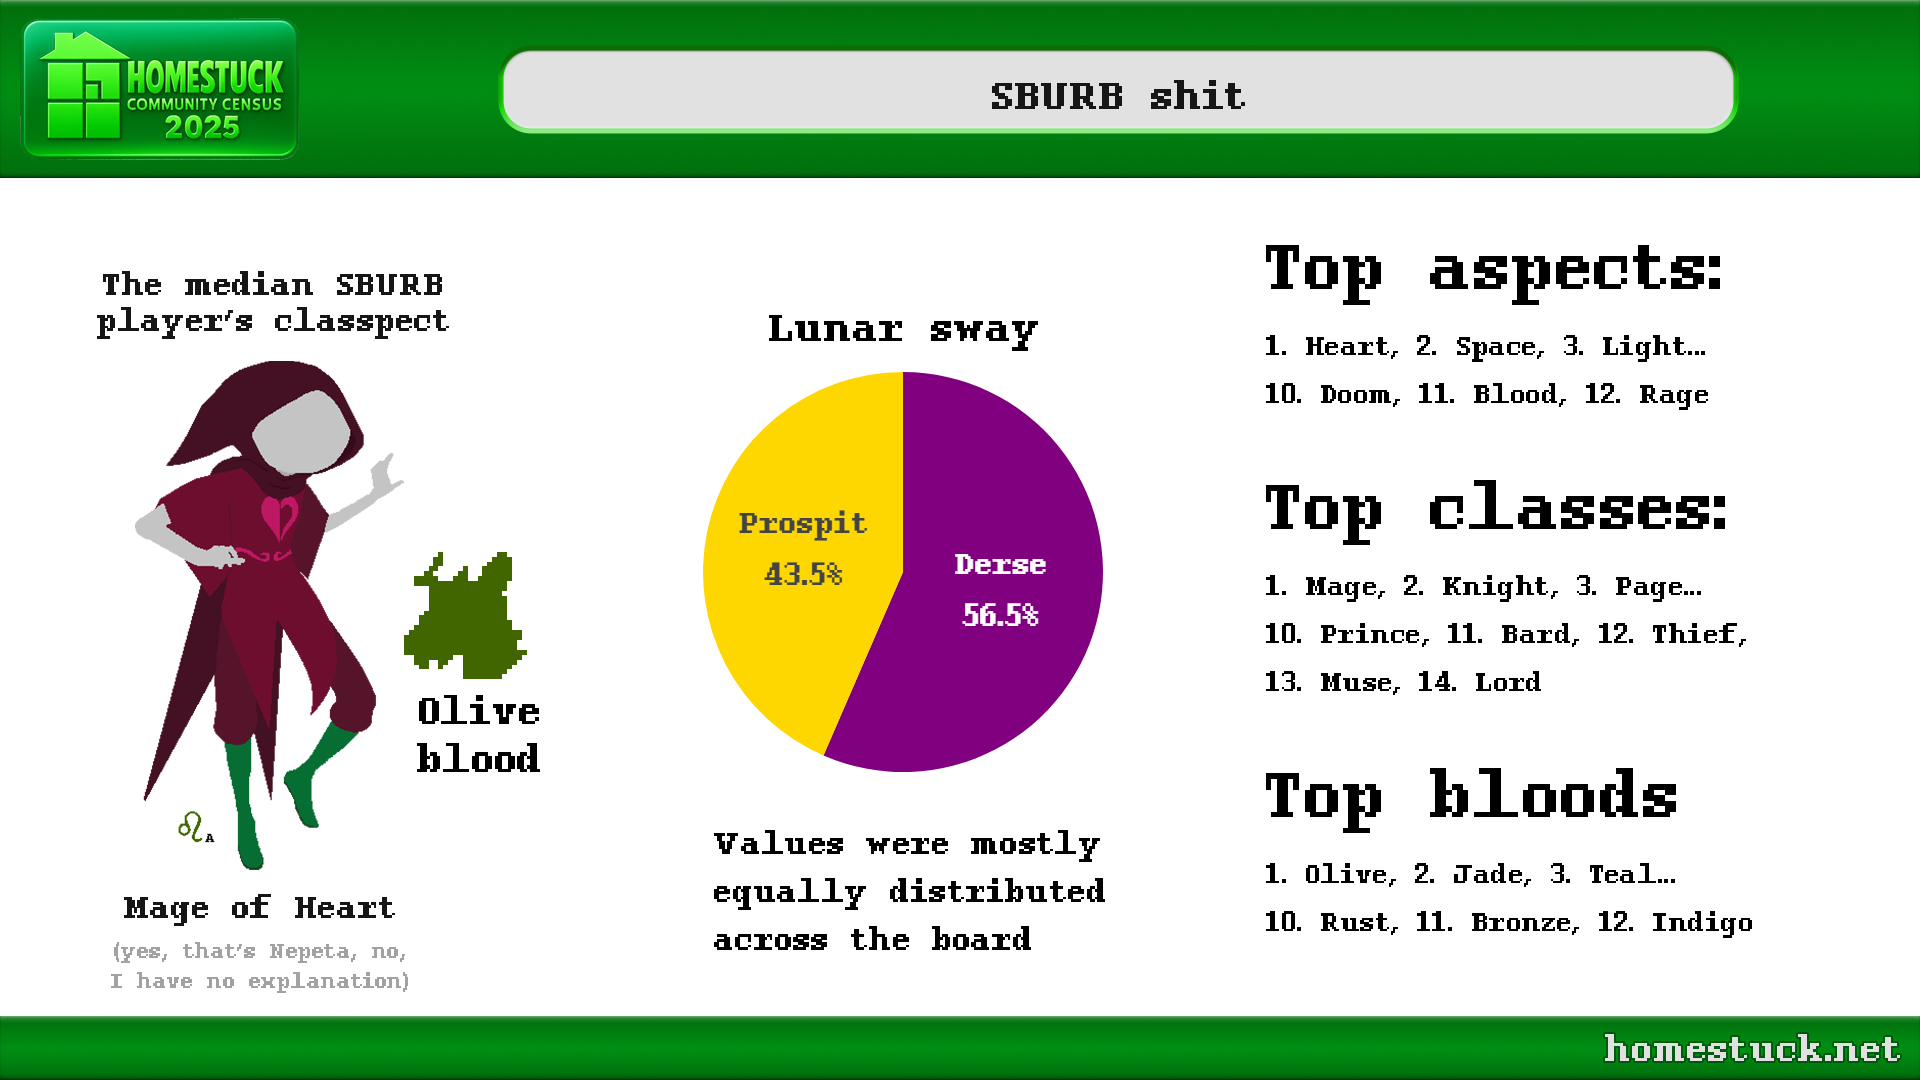
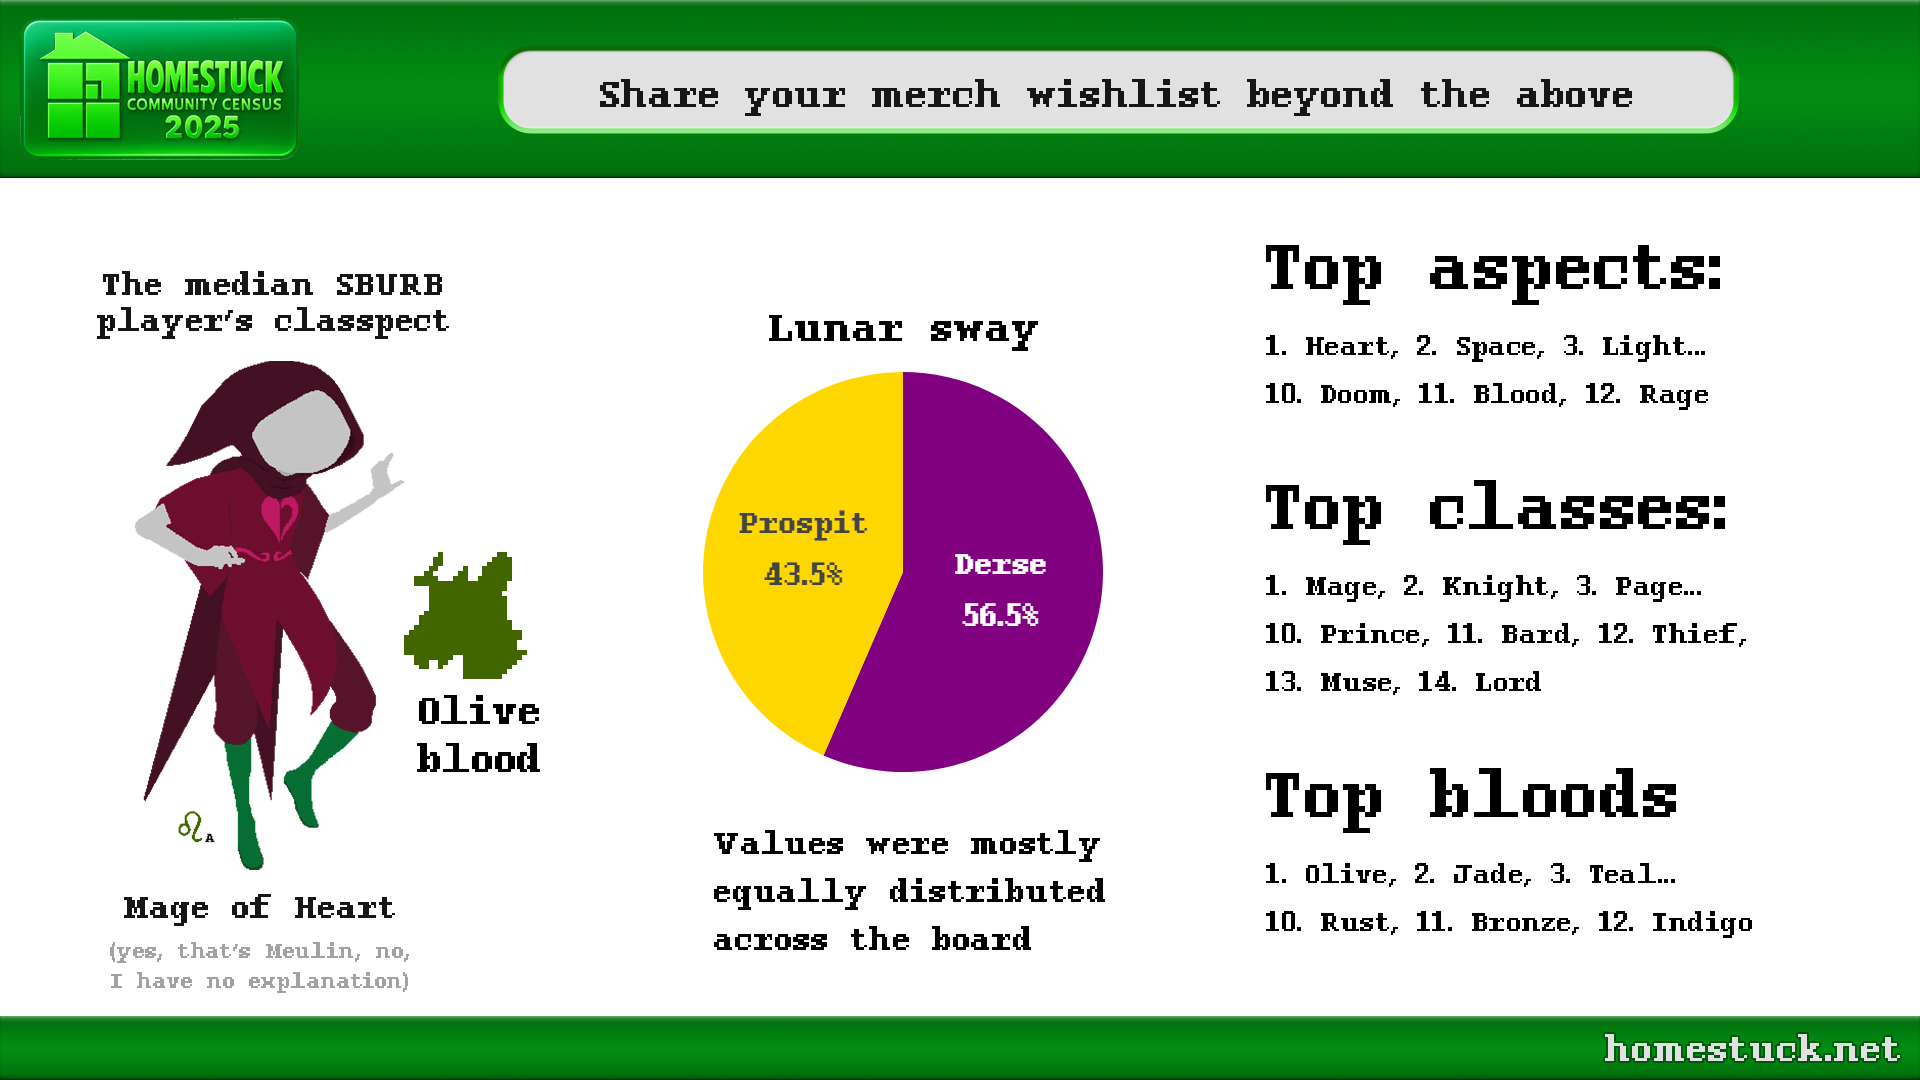
fix nepeta boner

Changed region(s): [[0.3125, 0.0611, 0.8438, 0.1222], [0.0625, 0.8556, 0.2188, 0.8861]]

diff --git a/meta/homestuck-community-census-2025/index.html b/meta/homestuck-community-census-2025/index.html
@@ -13091,7 +13091,7 @@
         </ul>
         <p><b>Links</b>: 
             <ul>
-                <li>Discuss the results on <a href="https://reddit.com/r/homestuck">/r/homestuck</a> or <a href="https://x.com/homestucknet">X</a></a></li>
+                <li>Discuss the results on <a href="https://www.reddit.com/r/homestuck/comments/1jy29py/4132025_megathread_all_homestuck_officialfanwork/?">/r/homestuck</a> or <a href="https://x.com/homestucknet/status/1911323823418245320">X</a></a></li>
                 <li><a href="homestuck-census-2025-questions.png">Original Tally.so questions</a></li>
                 <li><a href="https://github.com/recordcrash/homestuck-community-census-2025">Code and source data (identifiable characteristics removed)</a></li>
                 <li>Contact: email me at homestucknet@protonmail.com if you have any ideas for cool new graphs</li>
